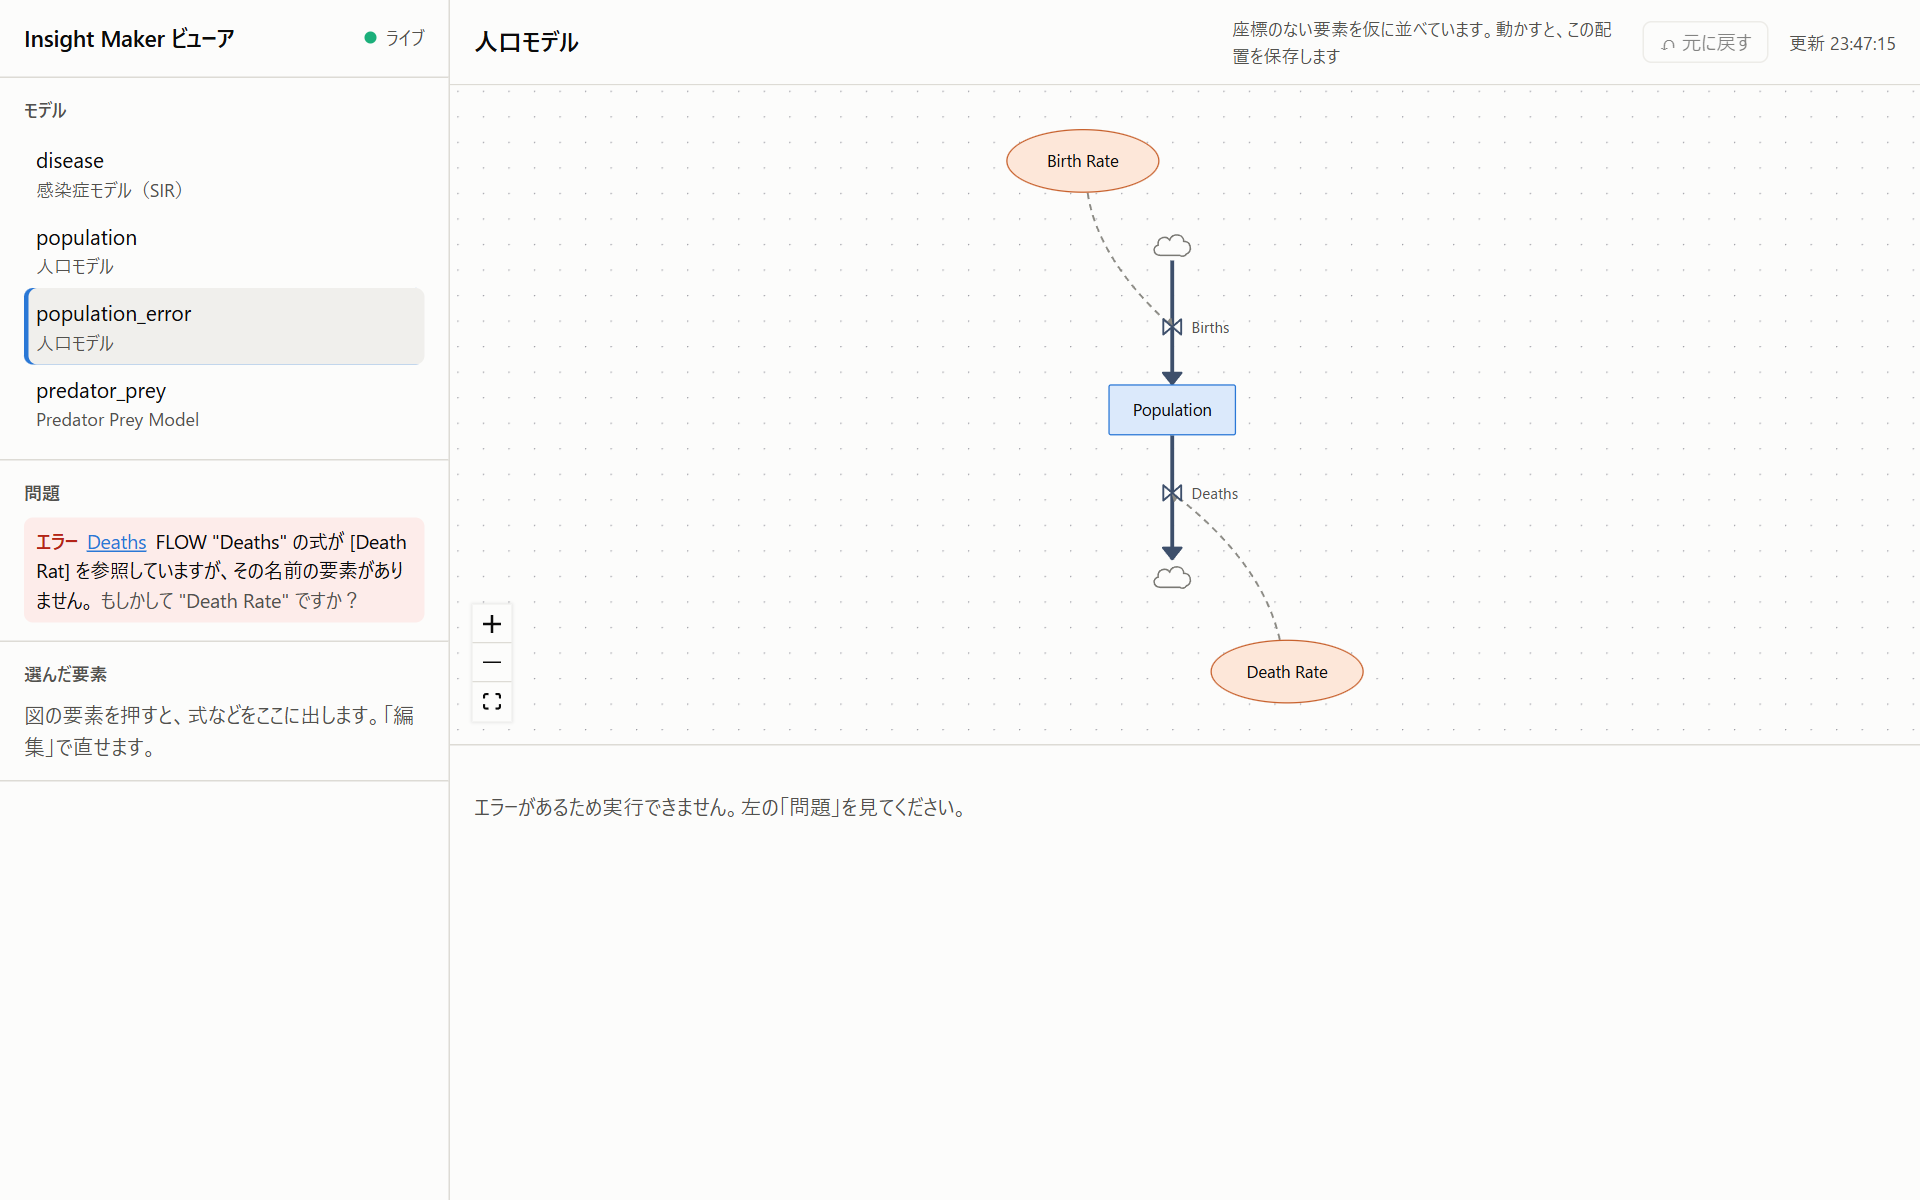
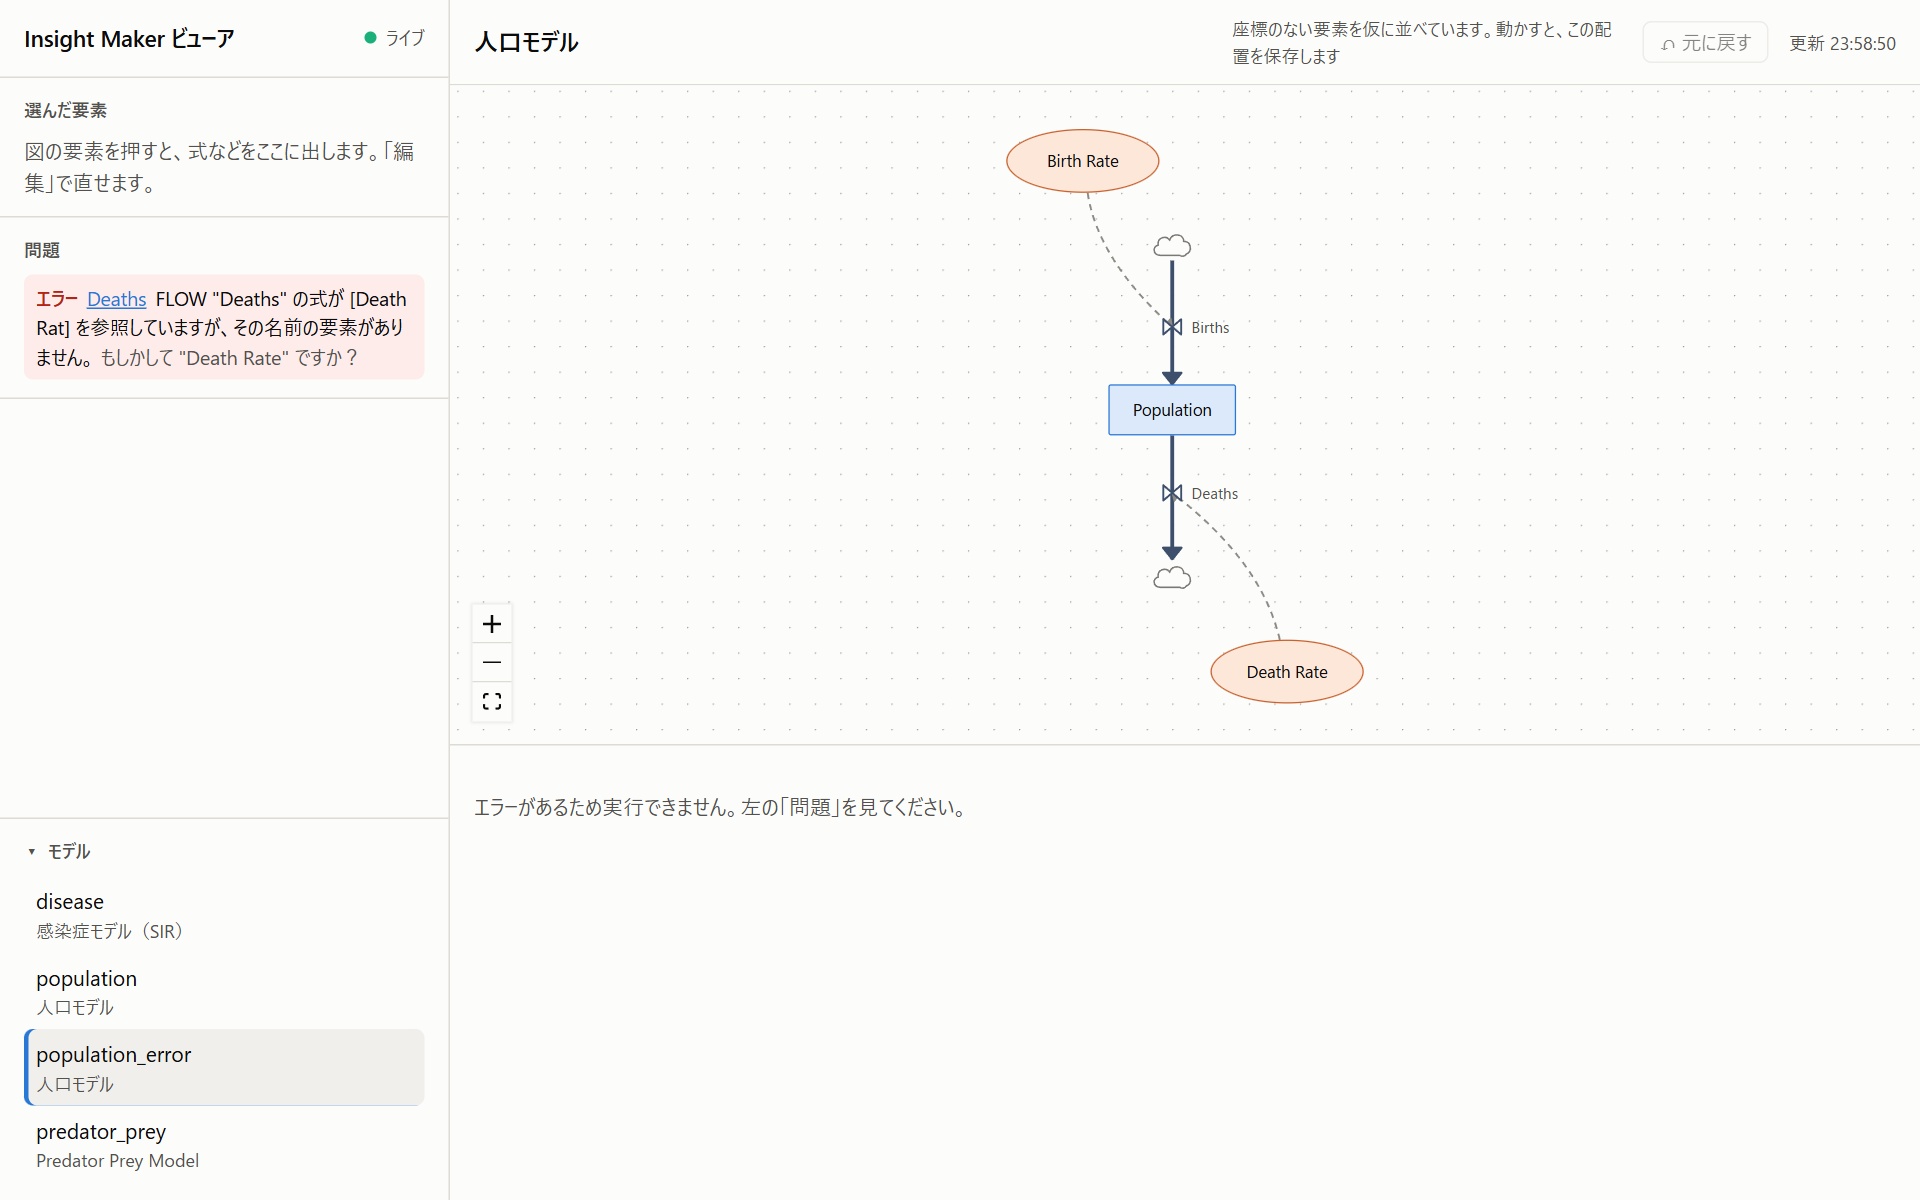
ビューア：選んだ要素を左の上に、モデル一覧を下に移して閉じられるようにする
変数の編集はよく使い、モデルの切り替えは少ないため。開け閉めはブラウザが覚える。

diff --git a/web/src/App.tsx b/web/src/App.tsx
@@ -35,6 +35,23 @@ const SKIPPED_MESSAGE = "画面の変更を送る前に、ほかのところ（A
 /** 入力欄で打っているときは、元に戻すのショートカットを横取りしない */
 const typing = (t: EventTarget | null) => t instanceof HTMLElement && (t.isContentEditable || /^(INPUT|TEXTAREA|SELECT)$/.test(t.tagName));
 
+/** モデル一覧を開いているか。ブラウザに覚えておく（使えなければ毎回開いた状態） */
+const MODELS_OPEN_KEY = "viewer.modelsOpen";
+function loadModelsOpen(): boolean {
+  try {
+    return localStorage.getItem(MODELS_OPEN_KEY) !== "0";
+  } catch {
+    return true;
+  }
+}
+function saveModelsOpen(open: boolean) {
+  try {
+    localStorage.setItem(MODELS_OPEN_KEY, open ? "1" : "0");
+  } catch {
+    // 覚えられなくても動く
+  }
+}
+
 export function App() {
   const [list, setList] = useState<ModelListResponse>();
   const [current, setCurrent] = useState(nameFromHash());
@@ -46,6 +63,12 @@ export function App() {
   const [changed, setChanged] = useState<Set<string>>(new Set());
   const [updatedAt, setUpdatedAt] = useState<Date>();
   const [busy, setBusy] = useState(false);
+  const [modelsOpen, setModelsOpen] = useState(loadModelsOpen);
+  const toggleModels = () =>
+    setModelsOpen((open) => {
+      saveModelsOpen(!open);
+      return !open;
+    });
   const dataRef = useRef<ModelResponse>(undefined);
   const currentRef = useRef(current);
   currentRef.current = current;
@@ -297,23 +320,6 @@ export function App() {
         </header>
 
         <section className="panel">
-          <h2>モデル</h2>
-          {list && list.models.length === 0 && <p className="muted">作業フォルダ（{list.dir}）にモデルがありません。</p>}
-          <ul className="model-list">
-            {list?.models.map((m) => (
-              <li key={m.name}>
-                <a href={`#${encodeURIComponent(m.name)}`} className={m.name === current ? "on" : ""}>
-                  <span className="model-name">{m.name}</span>
-                  {m.title && m.title !== m.name && <span className="model-title">{m.title}</span>}
-                </a>
-              </li>
-            ))}
-          </ul>
-        </section>
-
-        {data && <Problems data={data} onSelect={setSelected} />}
-
-        <section className="panel">
           <h2>選んだ要素</h2>
           {selectedEl ? (
             <Details el={selectedEl} value={finalValues[selectedEl.name!]} onSave={(patch) => edit([patch])} />
@@ -321,6 +327,33 @@ export function App() {
             <p className="muted">選んでいた「{selected}」が見つかりません。名前が変わったか、消された可能性があります。図で選び直してください。</p>
           ) : (
             <p className="muted">図の要素を押すと、式などをここに出します。「編集」で直せます。</p>
+          )}
+        </section>
+
+        {data && <Problems data={data} onSelect={setSelected} />}
+
+        <section className="panel models-panel">
+          <h2>
+            <button className="panel-toggle" onClick={toggleModels} aria-expanded={modelsOpen}>
+              <span className="chevron">{modelsOpen ? "▾" : "▸"}</span>
+              モデル
+              {!modelsOpen && list && <span className="count">{list.models.length}</span>}
+            </button>
+          </h2>
+          {modelsOpen && (
+            <>
+              {list && list.models.length === 0 && <p className="muted">作業フォルダ（{list.dir}）にモデルがありません。</p>}
+              <ul className="model-list">
+                {list?.models.map((m) => (
+                  <li key={m.name}>
+                    <a href={`#${encodeURIComponent(m.name)}`} className={m.name === current ? "on" : ""}>
+                      <span className="model-name">{m.name}</span>
+                      {m.title && m.title !== m.name && <span className="model-title">{m.title}</span>}
+                    </a>
+                  </li>
+                ))}
+              </ul>
+            </>
           )}
         </section>
       </aside>

diff --git a/web/src/styles.css b/web/src/styles.css
@@ -166,6 +166,41 @@ h2 {
 .panel p {
   margin: 0;
 }
+/* モデル一覧は切り替えることが少ないので、いちばん下に置いて閉じられるようにする */
+.models-panel {
+  margin-top: auto;
+  border-top: 1px solid var(--border);
+  border-bottom: none;
+}
+.models-panel h2 {
+  margin-bottom: 0;
+}
+.models-panel .model-list {
+  margin-top: 8px;
+}
+.panel-toggle {
+  display: flex;
+  align-items: center;
+  gap: 6px;
+  width: 100%;
+  padding: 0;
+  border: none;
+  background: none;
+  font: inherit;
+  color: inherit;
+  cursor: pointer;
+  text-align: left;
+}
+.panel-toggle:hover {
+  color: var(--text-primary);
+}
+.panel-toggle .chevron {
+  width: 10px;
+}
+.panel-toggle .count {
+  margin-left: auto;
+  font-weight: 400;
+}
 .model-list {
   list-style: none;
   margin: 0;

diff --git a/docs/VIEWER.md b/docs/VIEWER.md
@@ -74,9 +74,9 @@ npm run viewer -- --models-dir D:/work/models --port 5181
 | 場所 | 内容 |
 |---|---|
 | 左上 | 「ライブ」の緑の点は、ファイルの変更を見張っている印です。灰色の「未接続」なら、ビューアが止まっています |
-| 左の「モデル」 | 作業フォルダのモデルの一覧です。上の行がファイル名、下の行がモデルの名前です。押すとそのモデルを開きます |
+| 左の「選んだ要素」 | 図の要素を押すと、式などの詳しい情報が出ます。よく使うので、いちばん上にあります（[要素の詳しい情報](#要素の詳しい情報)） |
 | 左の「問題」 | モデルにエラーや警告があるときだけ出ます（[エラーがあるとき](#エラーがあるとき)） |
-| 左の「選んだ要素」 | 図の要素を押すと、式などの詳しい情報が出ます（[要素の詳しい情報](#要素の詳しい情報)） |
+| 左下の「モデル」 | 作業フォルダのモデルの一覧です。上の行がファイル名、下の行がモデルの名前です。押すとそのモデルを開きます。見出しを押すと一覧を閉じたり開いたりできます（閉じているあいだはモデルの数を出します）。開け閉めはブラウザが覚えています |
 | 上の帯 | モデルの名前と説明、「元に戻す」、最後に読み込んだ時刻 |
 | 真ん中 | モデルの図です（[図の見方](#図の見方)） |
 | 下 | 実行結果のグラフと表です（[グラフと表](#グラフと表)） |
